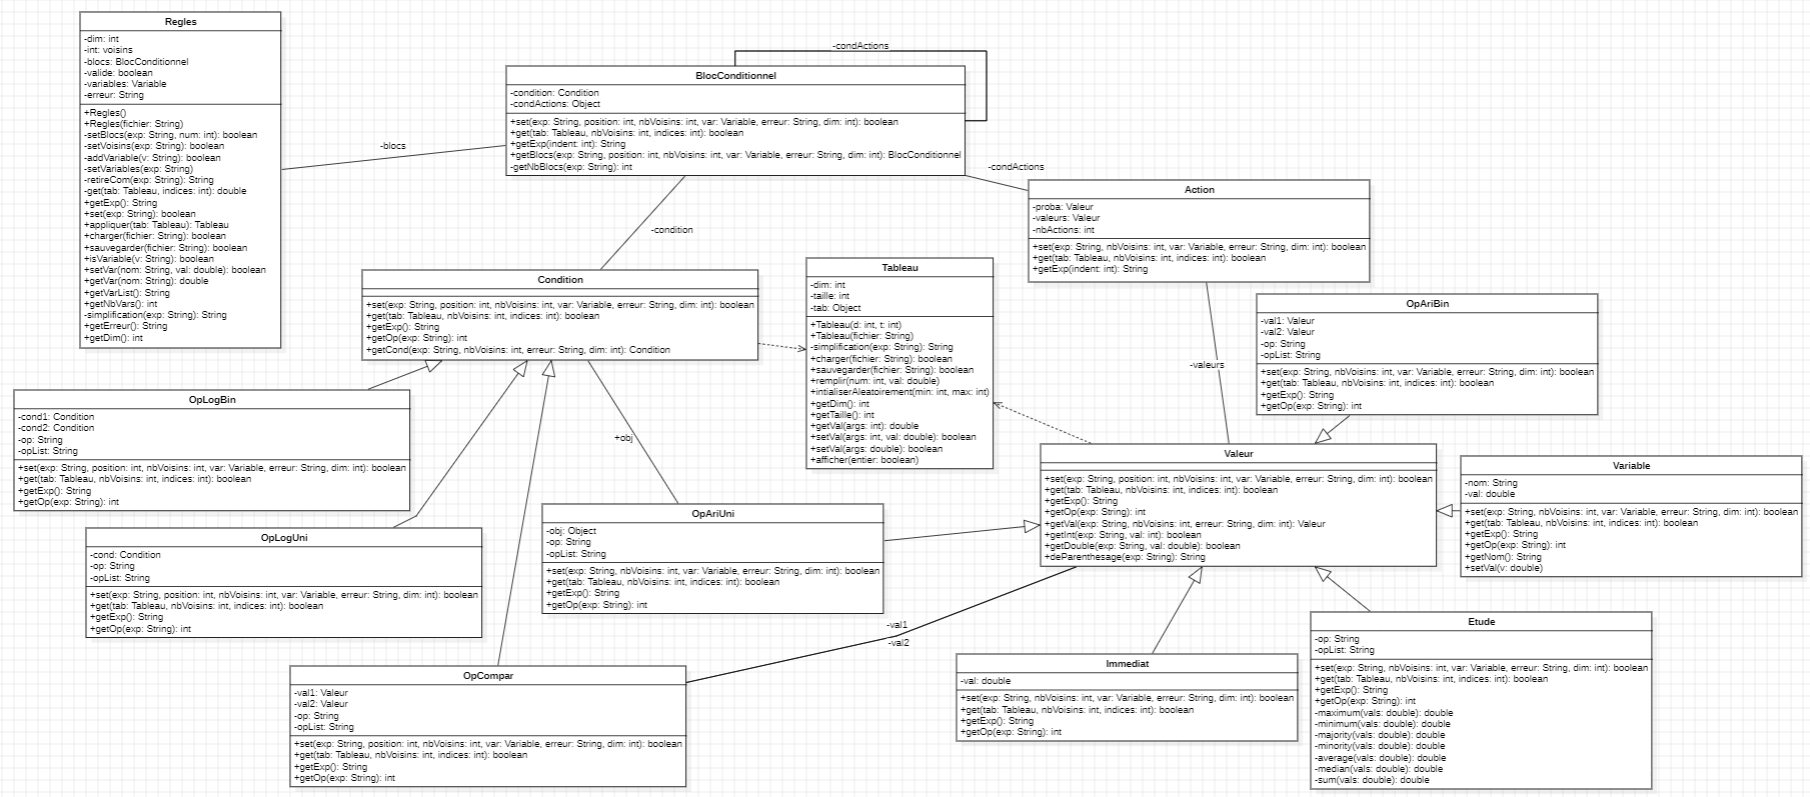
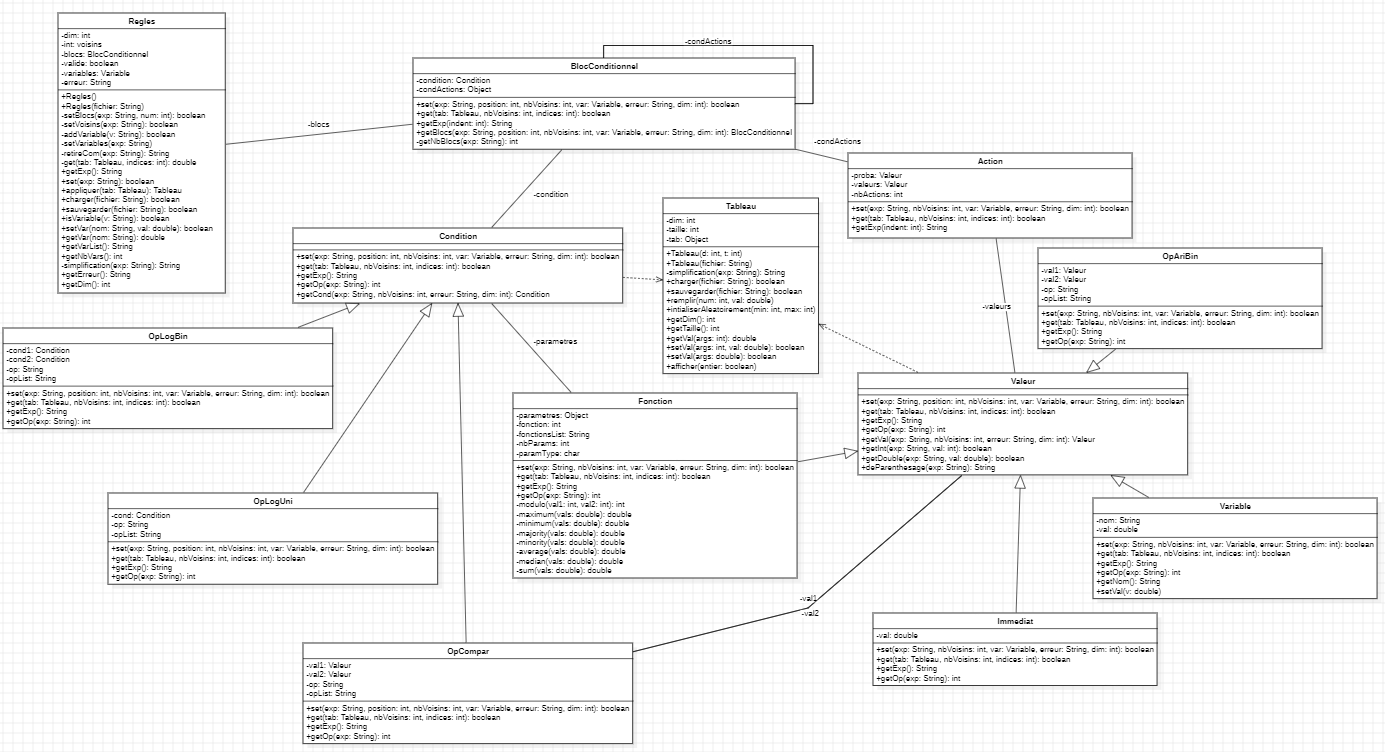
Maj DAC doc

Changed region(s): [[0.0, 0.0, 1.0, 1.0], [0.1552, 0.8258, 0.4657, 1.0], [0.7141, 0.7035, 0.7451, 0.734]]

diff --git a/src/Fonction.java b/src/Fonction.java
@@ -19,11 +19,21 @@ public class Fonction extends Valeur{
     private int fonction;
 
     /**
-     * opList est la liste des opérations unaires possibles.
+     * fonctionList est la liste des fonctions possibles.
      */
-    private String [] fonctionsList=  {"maximum","minimum","majority","minority","average","median","sum", "length","verif","count","#","cos","sin","tan","exp","ln","rand","coord","int","abs"};
-    private int [] nbParams=          {    0    ,    0    ,     0    ,     0    ,    0    ,    0   ,  0  ,     0   ,   1   ,   1   , 1 ,  1  ,  1  ,  1  ,  1  ,  1 ,   1  ,   1   ,  1  ,  1  };
-    private char [] paramType=        {   'n'   ,   'n'   ,    'n'   ,    'n'   ,   'n'   ,   'n'  , 'n' ,    'n'  ,  'c'  ,  'v'  ,'i', 'v' , 'v' , 'v' , 'v' , 'v',  'i' ,  'i'  , 'v' , 'v' };
+    private String [] fonctionsList=  {"maximum","minimum","majority","minority","average","median","sum", "length","verif","count","#","cos","sin","tan","exp","ln","rand","coord","int","abs","max","min","val"};
+    
+    /**
+     * nbParams est le nombre de paramètres que prend chaque fonction.
+     * -1 si le nombre de paramètres dépend de la dimension de la règle.
+     */
+    private int [] nbParams=          {    0    ,    0    ,     0    ,     0    ,    0    ,    0   ,  0  ,     0   ,   1   ,   1   , 1 ,  1  ,  1  ,  1  ,  1  ,  1 ,   1  ,   1   ,  1  ,  1  ,  2  ,  2  ,  -1 };
+    
+    /**
+     * paramType définit le type des paramètres de la fonction.
+     * 'n' si aucun paramètres, 'v' pour des valeurs, 'c' pour des conditions et 'i' pour des entiers
+     */
+    private char [] paramType=        {   'n'   ,   'n'   ,    'n'   ,    'n'   ,   'n'   ,   'n'  , 'n' ,    'n'  ,  'c'  ,  'v'  ,'i', 'v' , 'v' , 'v' , 'v' , 'v',  'i' ,  'i'  , 'v' , 'v' , 'v' , 'v' , 'v' };
 
     /**
      * Configure la fonction à partir d'une expression, position, nombre de voisins,
@@ -131,8 +141,8 @@ public class Fonction extends Valeur{
                 erreur[0]="Parenthèses manquante après : "+fonctionsList[fonction];
                 return false;
             }
-            if (num!=nbParams[fonction]) {
-                erreur[0]="La fonction "+fonctionsList[fonction]+" attend "+nbParams[fonction]+" paramètres contre "+num+" donnés";
+            if (num!=longueur) {
+                erreur[0]="La fonction "+fonctionsList[fonction]+" attend "+longueur+" paramètres contre "+num+" donnés";
                 return false;
             }
         }
@@ -206,11 +216,19 @@ public class Fonction extends Valeur{
                         return 0;
             }
             case "coord": {
-                int entier=modulo((((int [])parametres)[0]-1),tab.getDim()+1);
+                int entier=modulo((((int [])parametres)[0]-1),tab.getDim())+1;
                 return indices[entier-1];
             }
             case "int": return (int)((Valeur [])parametres)[0].get(tab, voisins, indices);
             case "abs": return Math.abs(((Valeur [])parametres)[0].get(tab, voisins, indices));
+            case "max": return Math.max(((Valeur [])parametres)[0].get(tab, voisins, indices),((Valeur [])parametres)[1].get(tab, voisins, indices));
+            case "min": return Math.min(((Valeur [])parametres)[0].get(tab, voisins, indices),((Valeur [])parametres)[1].get(tab, voisins, indices));
+            case "val": {
+                int [] vals=new int [((Valeur [])parametres).length];
+                for (int i=0;i<vals.length;i++)
+                    vals[i]=(int)((Valeur [])parametres)[i].get(tab, voisins, indices);
+                return tab.getVal(vals);
+            }
         }
         return 0;
     }
@@ -287,7 +305,7 @@ public class Fonction extends Valeur{
      * @param val2 Le second entier.
      * @return Le modulo de val1 par val2.
      */
-    public int modulo (int val1, int val2) {
+    private int modulo (int val1, int val2) {
         if (val1>=0) {
             return val1%val2;
         }

diff --git a/doc/Tuto_DAC.md b/doc/Tuto_DAC.md
@@ -12,16 +12,16 @@ Voici un exemple de code écrit en DAC :
 1, 0;
 @
 
-#2==-1 {
-    $var_Exe4:3+#2; 
+#(2)==-1 {
+    $var_Exe4:3+#(2); 
     0.9:2;
 }
-sin(#4)<=0.5 && (#0>8 || #0<4) {  /* Ceci est un commentaire */
+sin(#(4))<=0.5 && (#(0)>8 || #(0)<val(0,1)) {  /* Ceci est un commentaire */
     coord(1)==4 {
-        2:majority-1;
+        2:majority()-1;
     }
-    #3<=count(#0) {
-        1:4*verif(average!=1);
+    #(3)<=count(#(0)) {
+        1:4*verif(average()!=1);
     }
 }
 ```
@@ -93,25 +93,48 @@ Les valeurs des variables peuvent être modifiés après la définition des règ
 Exemple ci-dessous :
 `$var_Exe4` : vaut 0 mais peut être modifié après la définition de la règle
     
-##### Le type étude
+##### Le type fonction
 
-Le type étude est défini par un mot.
+Le type fonction est défini par un mot et des paramètres définis entre parenthèses.
 Rien n'empêche de créer une variable du même nom.
-Ce type permet de renvoyer un réel après l'étude des voisins ou du tableau.
+Ce type permet de renvoyer un réel.
 
-Voici les différentes études possibles :
-- `maximum` : renvoie la valeur maximale parmi les voisins
-- `minimum` : renvoie la valeur minimale parmi les voisins
-- `majority` : renvoie la valeur la plus présente parmi les voisins
-- `minority` : renvoie la valeur la moins présente parmi les voisins
-- `average` : renvoie la moyenne des valeurs des voisins
-- `median` : renvoie la médiane des valeurs des voisins
-- `sum` : renvoie la somme des valeurs des voisins
-- `length` : renvoie la taille du tableau
+Voici les différentes fonctions possibles :
+- `maximum` : Prend 0 paramètres et renvoie la valeur maximale parmi les voisins
+- `minimum` : Prend 0 paramètres et renvoie la valeur minimale parmi les voisins
+- `majority` : Prend 0 paramètres et renvoie la valeur la plus présente parmi les voisins
+- `minority` : Prend 0 paramètres et renvoie la valeur la moins présente parmi les voisins
+- `average` : Prend 0 paramètres et renvoie la moyenne des valeurs des voisins
+- `median` : Prend 0 paramètres et renvoie la médiane des valeurs des voisins
+- `sum` : Prend 0 paramètres et renvoie la somme des valeurs des voisins
+- `length` : Prend 0 paramètres et renvoie la taille du tableau
+- `verif` : Prend 1 paramètre de type Condition et renvoie 1 si elle est validée, 0 sinon.
+- `count` : Prend 1 paramètre de type Valeur et renvoie le nombre de voisins ayant cette va0leur.
+- `#` : Prend 1 paramètre de type entier et renvoie la valeur contenue dans le i eme voisin. (0 étant la cellule actuelle).
+- `cos` : Prend 1 paramètre de type Valeur et renvoie le cosinus en degrés de cette valeur.
+- `sin` : Prend 1 paramètre de type Valeur et renvoie le sinus en degrés de cette valeur.
+- `tan` : Prend 1 paramètre de type Valeur et renvoie la tangente en degrés de cette valeur.
+- `exp` : Prend 1 paramètre de type Valeur et renvoie l'exponentielle de cette valeur.
+- `ln` : Prend 1 paramètre de type Valeur et renvoie le logarithme de cette valeur.
+- `rand`. Prend 1 paramètre de type entier et renvoi un entier supérieur ou égal à 0 et inférieur strictement à cet entier.
+- `coord`. Prend 1 paramètre de type entier et renvoi la i ème coordonnée de la cellule.
+- `int`. Prend 1 paramètre de type Valeur et renvoie la partie entière de cette valeur.
+- `max`. Prend 2 paramètre de types Valeur et renvoie la valeur la plus grande.
+- `min`. Prend 2 paramètre de types Valeur et renvoie la valeur la plus petite.
+- `val`. Prend autant de paramètres de types Valeur que la dimensions des tableaux sur lesquels la règle s'applique et renvoi la valeur contenue dans la cellule à ces coordonnées.
         
 Par exemple :
-- `1:verif(average!=1);` Dans ce code, `average` renvoie la moyenne des valeurs des voisins.
-- `2:majority-1;` Dans ce code, `majority` renvoie la valeur la plus présente parmi les voisins.
+- `1:verif(average()!=1);` Dans ce code, `average()` renvoie la moyenne des valeurs des voisins.
+- `2:majority()-1;` Dans ce code, `majority()` renvoie la valeur la plus présente parmi les voisins.
+- `#(0)` renvoie la valeur contenue dans la cellule sur laquelle la règle est appliquée.
+- `#(2)` renvoie la valeur contenue dans la cellule de coordonnées 0, 1 relativement à la cellule sur laquelle la règle est appliquée.
+- `#(3)` renvoie la valeur contenue dans la cellule de coordonnées -1, 0 relativement à la cellule sur laquelle la règle est appliquée.
+- `#(4)` renvoie la valeur contenue dans la cellule de coordonnées 1, 0 relativement à la cellule sur laquelle la règle est appliquée.
+- `verif(average()!=1)` renvoie `1` si `average()!=0`, `0` sinon.
+- `count(#(0))` renvoie le nombre de voisins dont leur valeur est `#(0)`.
+- `coord(1)` renvoie la première coordonnée de la cellule sur laquelle la règle est appliquée.
+- `sin(#(4))` renvoie le sinus de `#(4)`.
+- `val(0,1)` Prend 2 paramètres car la règle s'applique sur des tableaux de dimension 2 et renvoie la valeur contenue dans la cellule aux coordonnées 0,1.
 
 
 ##### Les types opérateur binaire
@@ -125,35 +148,9 @@ Les types opérateur binaire sont les résultats d'opérations arithmetiques.
 - **Puissance** défini par `^`. Prend une valeur à sa gauche et à sa droite.
         
 Par exemple :
-- `4*verif(average!=1)` renvoie le produit de `4` et `verif(average!=1)`.
-- `3+#2` renvoie l'addition de `3` et `#2`.
-- `majority-1` renvoie la soustraction de `majority` par `1`.
-    
-##### Les types opérateur unaire
-
-Les types opérateur unaire sont des fonctions.
-
-- `verif` : Prend une condition à sa droite et renvoie 1 si elle est validée, 0 sinon.
-- `count` : Prend une valeur à sa droite et renvoie le nombre de voisins ayant cette valeur.
-- `#` : Prend un entier à sa droite et renvoie la valeur contenue dans le i eme voisin. (0 étant la cellule actuelle).
-- `cos` : Prend une valeur à sa droite et renvoie le cosinus en degrés de cette valeur.
-- `sin` : Prend une valeur à sa droite et renvoie le sinus en degrés de cette valeur.
-- `tan` : Prend une valeur à sa droite et renvoie la tangente en degrés de cette valeur.
-- `exp` : Prend une valeur à sa droite et renvoie l'exponentielle de cette valeur.
-- `ln` : Prend une valeur à sa droite et renvoie le logarithme de cette valeur.
-- `rand`. Prend un entier supérieur ou égal à 1 à sa droite et renvoi un entier supérieur ou égal à 0 et inférieur strictement à cet entier.
-- `coord`. Prend un entier compris entre 1 et la dimension de la règle et renvoi la i ème coordonnée de la cellule.
-- `int`. Prend une valeur à sa droite et renvoie la partie entière de cette valeur.
-        
-Par exemple :
-- `#0` renvoie la valeur contenue dans la cellule sur laquelle la règle est appliquée.
-- `#2` renvoie la valeur contenue dans la cellule de coordonnées 0, 1 relativement à la cellule sur laquelle la règle est appliquée.
-- `#3` renvoie la valeur contenue dans la cellule de coordonnées -1, 0 relativement à la cellule sur laquelle la règle est appliquée.
-- `#4` renvoie la valeur contenue dans la cellule de coordonnées 1, 0 relativement à la cellule sur laquelle la règle est appliquée.
-- `verif(average!=1)` renvoie `1` si `average!=0`, `0` sinon.
-- `count(#0)` renvoie le nombre de voisins dont leur valeur est `#0`.
-- `coord(1)` renvoie la première coordonnée de la cellule sur laquelle la règle est appliquée.
-- `sin(#4)` renvoie le sinus de `#4`.
+- `4*verif(average()!=1)` renvoie le produit de `4` et `verif(average()!=1)`.
+- `3+#(2)` renvoie l'addition de `3` et `#(2)`.
+- `majority()-1` renvoie la soustraction de `majority()` par `1`.
 
 
 ### Définition des règles
@@ -171,10 +168,10 @@ De plus, chaque bloc est précédé d'une condition qui permet de définir quand
 Un bloc contient toujours soit une action, soit d'autres blocs.
 
 Par exemple :
-- `#2==-1 {}` contient l'action `$var_Exe4:3+#2; 0.9:2;` cette action est executé seulement si `#2==-1`.
-- `sin(#4)<=0.5 && (#0>8 || #0<4) {}` contient 2 blocs qui seront parcouru seulement si aucune action n'a encore été executée et que `sin(#4)<=0.5 && (#0>8 || #0<4)`.
-- `coord(1)==4 {}` contient l'action `2:majority-1;` cette action est executé seulement si aucune action n'a encore été executée, que `sin(#4)<=0.5 && (#0>8 || #0<4)` et que `coord(1)==4`.
-- `#3<=count(#0) {}` contient l'action `1:4*verif(average!=1);` cette action est executé seulement si aucune action n'a encore été executée, que `sin(#4)<=0.5 && (#0>8 || #0<4)` et que `#3<=count(#0)`.
+- `#(2)==-1 {}` contient l'action `$var_Exe4:3+#(2); 0.9:2;` cette action est executé seulement si `#(2)==-1`.
+- `sin(#(4))<=0.5 && (#(0)>8 || #(0)<val(0,1)) {}` contient 2 blocs qui seront parcouru seulement si aucune action n'a encore été executée et que `sin(#(4))<=0.5 && (#(0)>8 || #(0)<val(0,1))`.
+- `coord(1)==4 {}` contient l'action `2:majority()-1;` cette action est executé seulement si aucune action n'a encore été executée, que `sin(#(4))<=0.5 && (#(0)>8 || #(0)<val(0,1))` et que `coord(1)==4`.
+- `#(3)<=count(#(0)) {}` contient l'action `1:4*verif(average()!=1);` cette action est executé seulement si aucune action n'a encore été executée, que `sin(#(4))<=0.5 && (#(0)>8 || #(0)<val(0,1))` et que `#(3)<=count(#(0))`.
 
 ##### Les conditions
 
@@ -193,10 +190,10 @@ Une condition peut être composée de plusieurs opérateurs conditionnels :
 - **Supérieur ou égal** défini par `>=`. Prend une valeur à sa gauche et à sa droite.
         
 Par exemple :
-- `#2==-1` est valide si `#2` est égal à -1.
-- `sin(#4)<=0.5 && (#0>8 || #0<4)` est valide si `sin(#4)` est inférieur à 0.5 et que `#0` n'est pas compris entre 4 et 8.
+- `#(2)==-1` est valide si `#(2)` est égal à -1.
+- `sin(#(4))<=0.5 && (#(0)>8 || #(0)<val(0,1))` est valide si `sin(#(4))` est inférieur à 0.5 et que `#(0)` n'est pas compris entre 4 et val(0,1).
 - `coord(1)==4` est valide si `coord(1)` vaut 4.
-- `#3<=count(#0)` est valide si `#3` est inférieur ou égal à `count(#0)`.
+- `#(3)<=count(#(0))` est valide si `#(3)` est inférieur ou égal à `count(#(0))`.
     
 ##### Les actions
 
@@ -229,31 +226,31 @@ Maintenant un exemple plus poussé, reprenons le code de l'introduction :
 1, 0;
 @
 
-#2==-1 {
-    $var_Exe4:3+#2; 
+#(2)==-1 {
+    $var_Exe4:3+#(2); 
     0.9:2;
 }
-sin(#4)<=0.5 && (#0>8 || #0<4) {  /* Ceci est un commentaire */
+sin(#(4))<=0.5 && (#(0)>8 || #(0)<val(0,1)) {  /* Ceci est un commentaire */
     coord(1)==4 {
-        2:majority-1;
+        2:majority()-1;
     }
-    #3<=count(#0) {
-        1:4*verif(average!=1);
+    #(3)<=count(#(0)) {
+        1:4*verif(average()!=1);
     }
 }
 ```
 
-- Si `#2==-1` est valide, on execute `$var_Exe4:3+#2; 0.9:2;`;
+- Si `#(2)==-1` est valide, on execute `$var_Exe4:3+#(2); 0.9:2;`;
 - La première instruction a une probabilité de `$var_Exe4/($var_Exe4+0.9)` d'être exécutée.
-On assignerait alors la valeur de `3+#2` à la cellule sur laquelle la règle est appliquée.
+On assignerait alors la valeur de `3+#(2)` à la cellule sur laquelle la règle est appliquée.
 - La deuxième instruction a une probabilité de `0.9/($var_Exe4+0.9)` d'être exécutée.
 On assignerait alors la valeur 2 à la cellule sur laquelle la règle est appliquée.
-- Si `sin(#4)<=0.5 && (#0>8 || #0<4)` et `coord(1)==4` sont valides, on execute `2:majority-1;`
+- Si `sin(#(4))<=0.5 && (#(0)>8 || #(0)<val(0,1))` et `coord(1)==4` sont valides, on execute `2:majority()-1;`
 - L'instruction a une probabilité de `2/2` = 100% de chances d'être exécutée.
-On assignerait alors la valeur de `majority-1` à la cellule sur laquelle la règle est appliquée.
-- Si `sin(#4)<=0.5 && (#0>8 || #0<4)` et `#3<=count(#0)` sont valides, on execute `1:4*verif(average!=1);`
+On assignerait alors la valeur de `majority()-1` à la cellule sur laquelle la règle est appliquée.
+- Si `sin(#(4))<=0.5 && (#(0)>8 || #(0)<val(0,1))` et `#(3)<=count(#(0))` sont valides, on execute `1:4*verif(average()!=1);`
 - L'instruction a une probabilité de `1/1` = 100% de chances d'être exécutée.
-On assignerait alors la valeur de `4*verif(average!=1)` à la cellule sur laquelle la règle est appliquée.
+On assignerait alors la valeur de `4*verif(average()!=1)` à la cellule sur laquelle la règle est appliquée.
 
 
 Vous avez désormais toutes les clés pour définir vos propres automates cellulaires.
